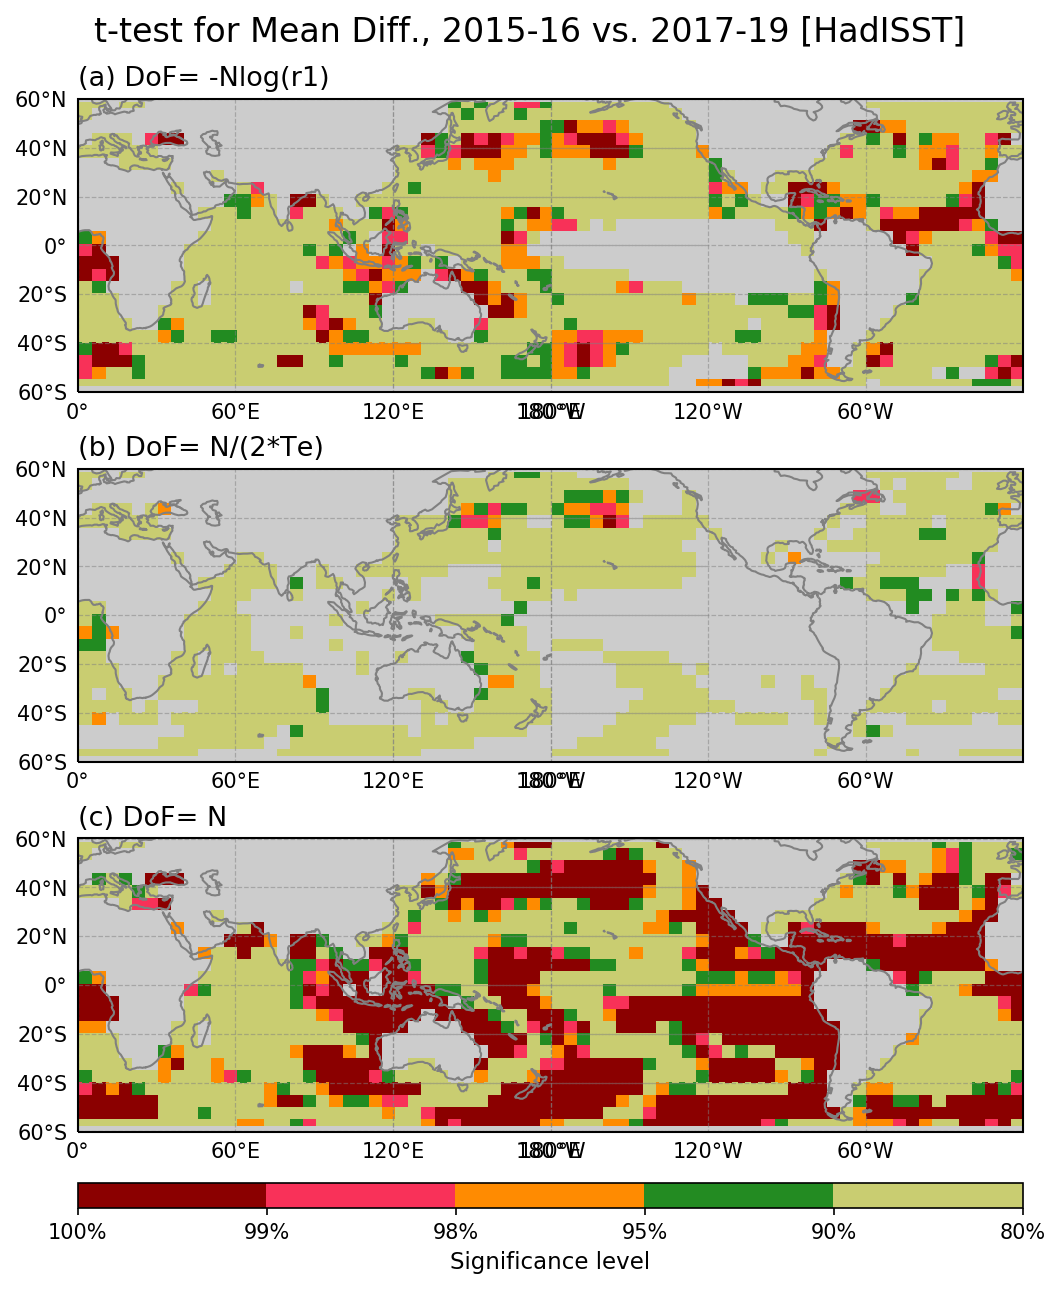
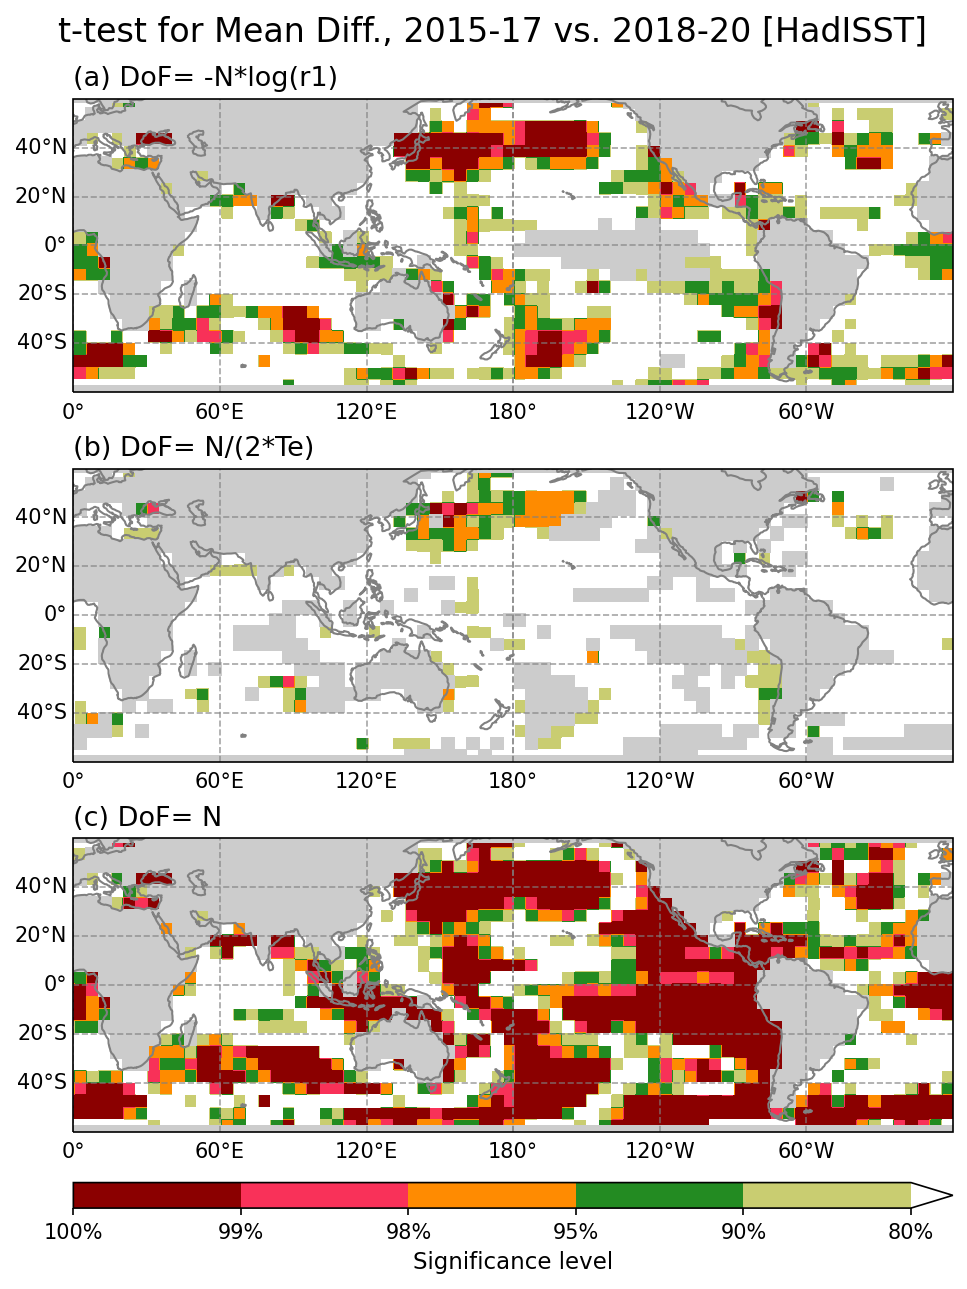
2021.0713

diff --git a/V.Various_Analysis_Methods/V00_Functions.py b/V.Various_Analysis_Methods/V00_Functions.py
@@ -47,7 +47,13 @@ def get_tgt_latlon_idx(latlons, tgt_lats, tgt_lons):
     ##-- Regional index
     if isinstance(tgt_lons,list):
         lon_idx= [lon_deg2x(ll,lon0,dlon) for ll in tgt_lons]
-        if lon_idx[1]<lon_idx[0]:
+        if lon_idx[0]==lon_idx[1]:
+            if tgt_lons[0]!=tgt_lons[1]:
+                lon_ids= np.arange(nlon)+lon_idx[0]
+                lon_ids[lon_ids>=nlon] -= nlon
+            else:
+                lon_ids= [lon_idx,]
+        elif lon_idx[1]<lon_idx[0]:
             lon_ids= list(range(lon_idx[0],nlon,1))+list(range(lon_idx[1]))
         else:
             lon_ids= np.arange(lon_idx[0], lon_idx[1], 1)
@@ -221,8 +227,7 @@ def get_monthly_dates(date1,date2,day=1,include_date2=True):
     return outdates
 
 from matplotlib.ticker import MultipleLocator, FixedLocator
-from cartopy.mpl.gridliner import LONGITUDE_FORMATTER, LATITUDE_FORMATTER
-def map_common(ax,subtit,proj,gl_lab_locator=[False,True,True,False],yloc=10,xloc=30,lon_range=[-180,179]):
+def map_common(ax,subtit,data_crs,gl_lab_locator=[True,True,False,True],yloc=30,xloc=60,lon_range=[-180,179.9]):
     """ Decorating Cartopy Map
     """
     ### Title
@@ -230,30 +235,23 @@ def map_common(ax,subtit,proj,gl_lab_locator=[False,True,True,False],yloc=10,xlo
     ### Coast Lines
     ax.coastlines(color='0.5',linewidth=1.)
     ### Grid Lines
-    # Trick to draw grid lines over dateline; not necessary in Cartopy 0.18.0 or later
-    gl= ax.gridlines(crs=proj, draw_labels=False,
-                    linewidth=0.6, color='gray', alpha=0.5, linestyle='--')
+    prop_gl= dict(linewidth=0.8, color='gray', alpha=0.7, linestyle='--')
+    import cartopy
+    cartopy_version= float(cartopy.__version__[:4])
+    if cartopy_version < 0.18:
+        print("Cartopy Version= {}".format(cartopy_version))
+        print("Caution: This code is optimized for Cartopy version 0.18+")
+        ax.gridlines(crs=data_crs, **prop_gl)
+    else:
+        gl=ax.gridlines(crs=data_crs,draw_labels=True,**prop_gl)
+        gl.left_labels,gl.right_labels,gl.top_labels,gl.bottom_labels= gl_lab_locator
+
+    gl.xlabel_style = {'size': 10}
+    gl.ylabel_style = {'size': 10}
     gl.xlocator = MultipleLocator(xloc)
     gl.ylocator = MultipleLocator(yloc)
-
-    gl= ax.gridlines(crs=proj, draw_labels=True,
-                    linewidth=0.6, color='gray', alpha=0.5, linestyle='--')
-
-    ### x and y-axis tick labels
-    gl.xlabels_top,gl.xlabels_bottom,gl.ylabels_left,gl.ylabels_right = gl_lab_locator
-    #gl.xlocator = MultipleLocator(xloc)
-    lon_locs= np.arange(np.ceil(lon_range[0]/xloc)*xloc,lon_range[1]+0.01,xloc)
-    lon_locs[lon_locs>180]-=360
-    gl.xlocator = FixedLocator(lon_locs)  # Test: [120,180,240,300]
-
-    #gl.xlocator = FixedLocator(range(-180,180,xloc))
-    gl.ylocator = MultipleLocator(yloc)
-    gl.xformatter = LONGITUDE_FORMATTER
-    gl.yformatter = LATITUDE_FORMATTER
-    gl.xlabel_style = {'size': 10, 'color': 'k'}
-    gl.ylabel_style = {'size': 10, 'color': 'k'}
     ### Aspect ratio of map
-    ax.set_aspect('auto') ### 'auto' allows the map to be distorted and fill the defined axes
+    #ax.set_aspect('auto') ### 'auto' allows the map to be distorted and fill the defined axes
     return
 
 def draw_colorbar(fig,ax,pic1,type='vertical',size='panel',gap=0.06,width=0.02,extend='neither'):

diff --git a/V.Various_Analysis_Methods/V08.t-test_Ex2_py3.py b/V.Various_Analysis_Methods/V08.t-test_Ex2_py3.py
@@ -28,7 +28,7 @@ import V00_Functions as vf
 
 def main():
     ### Years to read data
-    yrs= [2015,2019]  # Starting year and ending year
+    yrs= [2015,2020]  # Starting year and ending year
 
     ### Get SST anomaly
     area_range= [-180,180,-60,60]  # [lon_range, lat_range]
@@ -51,9 +51,9 @@ def main():
     print(dof_coef2.min(),np.median(dof_coef2))
 
     ### Split data for t-test
-    data_prv, data_post= data2test[:36,:], data2test[36:,:]  # First 3 years and later 2 years
+    data_prv, data_post= data2test[:36,:], data2test[36:,:]  # First 3 years and later 3 years
 
-    ### Calculate signi level of t-test by different dof setting
+    ### Calculate significance level of t-test by different dof setting
     p_vals1= get_ttest_pval_2d(dof_coef1,data_prv,data_post)
     p_vals2= get_ttest_pval_2d(dof_coef2,data_prv,data_post)
     p_vals3= get_ttest_pval_2d(np.ones_like(dof_coef1),data_prv,data_post)  # Assume no dependency
@@ -72,8 +72,8 @@ def main():
     ##-- Above bound is based on previous resolution, but it's ok since no change on area_boundary
 
     ### Prepare for plotting
-    suptit="t-test for Mean Diff., 2015-16 vs. 2017-19 [HadISST]"
-    var_names= ['DoF= -Nlog(r1)','DoF= N/(2*Te)','DoF= N']
+    suptit="t-test for Mean Diff., 2015-17 vs. 2018-20 [HadISST]"
+    var_names= ['DoF= -N*log(r1)','DoF= N/(2*Te)','DoF= N']
 
     outdir= '../Pics/'
     out_fig_nm= outdir+'V08.t-test_example_5deg_box.png'
@@ -153,12 +153,12 @@ def plot_map(pdata):
     proj = ccrs.PlateCarree(central_longitude=center)
     data_crs= ccrs.PlateCarree()
 
-    map_extent= [0.,359.9,-60.1,60.1]  # Range to be shown
+    map_extent= [0.,359.9,-60,60]  # Range to be shown
     img_range= pdata['img_bound']
 
     ###--- Set range of values to be shown
     #val_min, val_max= 0,0.5   <-- it is unnecessary for BoundaryNorm
-    p_val_levels= [-0.0001,0.01, 0.02, 0.05, 0.1, 0.2]
+    p_val_levels= [0,0.01, 0.02, 0.05, 0.1, 0.2]
 
     ###--- Color map
     colors= ['darkred','#FA325A','darkorange','forestgreen','#C9CD71']
@@ -185,21 +185,18 @@ def plot_map(pdata):
         vf.map_common(ax1,subtit,data_crs,xloc=60,yloc=20)
 
         iy=iy-ly-gapy
-    cb= vf.draw_colorbar(fig,ax1,map1,type='horizontal',size='panel',gap=0.06)
+    cb= vf.draw_colorbar(fig,ax1,map1,type='horizontal',size='panel',gap=0.06,extend='max')
     cb.set_label('Significance level',fontsize=11)
     cb.ax.set_xticklabels(['{:.0f}%'.format((1-val)*100) for val in p_val_levels])
     cb.ax.tick_params(labelsize=10)
 
     ##-- Seeing or Saving Pic --##
-    plt.show()
-
-    #- If want to save to file
     outfnm = pdata['out_fnm']
     print(outfnm)
     #fig.savefig(outfnm,dpi=100)   # dpi: pixels per inch
-    #fig.savefig(outfnm,dpi=150,bbox_inches='tight')   # dpi: pixels per inch
-
+    fig.savefig(outfnm,dpi=150,bbox_inches='tight')   # dpi: pixels per inch
     # Defalut: facecolor='w', edgecolor='w', transparent=False
+    plt.show()
     return
 
 if __name__ == "__main__":

diff --git a/V.Various_Analysis_Methods/V05.Regression_Nino34_SST_py3.py b/V.Various_Analysis_Methods/V05.Regression_Nino34_SST_py3.py
@@ -22,7 +22,7 @@ import V00_Functions as vf
 
 def main():
     ### Years to read data
-    yrs= [2015,2019]  # Starting year and ending year
+    yrs= [2015,2020]  # Starting year and ending year
 
     ### Get Nino3.4 Index
     #Nino3.4 (5N-5S, 170W-120W) [-170,-120,-5,5]
@@ -57,7 +57,7 @@ def main():
     regr_coef3= np.copy(regr_map)
 
     ### Prepare for plotting
-    suptit="Regr. coef. of SST against Ni{}o3.4 [HadISST,2015-19]".format('\u00F1')
+    suptit="Regr. coef. of SST against Ni{}o3.4 [HadISST,2015-20]".format('\u00F1')
     data= [regr_coef1, regr_coef2, regr_coef3]
     var_names= ['Calc_manually','Using linregress()','Using sklearn.linear_model']
 
@@ -102,7 +102,8 @@ def regr_linregress_1d_vs_2d(arr1d, arr2d):
     regr: coefficients, 1-d array of shape [n]
     """
     from scipy.stats import linregress
-    regr= np.apply_along_axis(lambda y,x: linregress(x,y)[0],0,arr2d,x=arr1d)
+    f= lambda y,x: linregress(x,y)[0]
+    regr= np.apply_along_axis(f,0,arr2d,x=arr1d)
     return regr
 
 def regr_sklearn_1d_vs_2d(arr1d, arr2d):
@@ -145,7 +146,7 @@ def plot_map(pdata):
 
     ###--- Create a figure
     fig=plt.figure()
-    fig.set_size_inches(7,8.5)  ## (xsize,ysize)
+    fig.set_size_inches(6.4,9.6)  ## (xsize,ysize)
 
     ###--- Suptitle
     suptit= pdata['suptit']
@@ -159,7 +160,7 @@ def plot_map(pdata):
     lon0,dlon,nlon= [val for val in pdata['lon_info'].values()]
     lat0,dlat,nlat= [val for val in pdata['lat_info'].values()]
 
-    map_extent= [70.,279.9,-60.1,60.1]  # Range to be shown
+    map_extent= [30.,300,-60,60]  # Range to be shown
     img_range= [lon0-dlon/2,lon0+dlon*(nlon+0.5),lat0-dlat/2,lat0+dlat*(nlat+0.5)]  # Exact range of data, necessary for imshow()
     #xm,ym= np.meshgrid(np.arange(nlon+1)*dlon+lon0-dlon/2, np.arange(nlat+1)*dlat+lat0-dlat/2)  # For pcolormesh()
 
@@ -169,10 +170,10 @@ def plot_map(pdata):
     val_min, val_max= -vmax, vmax
 
     ###--- Color map
-    cm = plt.cm.get_cmap('plasma') #'RdYlBu_r')
+    cm = plt.cm.get_cmap('plasma').copy() #'RdYlBu_r')
     cm.set_bad('0.9')  # For the gridcell of NaN
 
-    left,right,top,bottom= 0.07, 0.97, 0.93, 0.12
+    left,right,top,bottom= 0.06, 0.94, 0.93, 0.12
     npnx,gapx,npny,gapy= 1, 0.05, len(pdata['data']), 0.06
     lx= (right-left-gapx*(npnx-1))/npnx
     ly= (top-bottom-gapy*(npny-1))/npny
@@ -197,14 +198,11 @@ def plot_map(pdata):
     cb.ax.tick_params(labelsize=10)
 
     ##-- Seeing or Saving Pic --##
-    plt.show()
-
-    #- If want to save to file
     outfnm = pdata['out_fnm']
     print(outfnm)
     #fig.savefig(outfnm,dpi=100)   # dpi: pixels per inch
-    #fig.savefig(outfnm,dpi=150,bbox_inches='tight')   # dpi: pixels per inch
-
+    fig.savefig(outfnm,dpi=150,bbox_inches='tight')   # dpi: pixels per inch
+    plt.show()
     return
 
 

diff --git a/V.Various_Analysis_Methods/V06.Correlation_Nino34_SST_py3.py b/V.Various_Analysis_Methods/V06.Correlation_Nino34_SST_py3.py
@@ -22,7 +22,7 @@ import V00_Functions as vf
 
 def main():
     ### Years to read data
-    yrs= [2015,2019]  # Starting year and ending year
+    yrs= [2015,2020]  # Starting year and ending year
 
     ### Get Nino3.4 Index
     #Nino3.4 (5N-5S, 170W-120W) [-170,-120,-5,5]
@@ -57,7 +57,7 @@ def main():
     corr_coef3= np.copy(corr_map)
 
     ### Prepare for plotting
-    suptit= "Corr. coef. between SST and Ni{}o3.4 [HadISST,2015-19]".format('\u00F1')
+    suptit= "Corr. coef. between SST and Ni{}o3.4 [HadISST,2015-20]".format('\u00F1')
     data= [corr_coef1, corr_coef2, corr_coef3]
     var_names= ['Calc_manually','Using pearsonr()','Using corrcoef()']
     #lat_info= dict(lat0=lat0,dlat=dlat,nlat=nlat)
@@ -161,14 +161,14 @@ def plot_map(pdata):
     lon0,dlon,nlon= [val for val in pdata['lon_info'].values()]
     lat0,dlat,nlat= [val for val in pdata['lat_info'].values()]
 
-    map_extent= [0.,359.9,-60.1,60.1]  # Range to be shown
+    map_extent= [0.,359.9,-60,60]  # Range to be shown
     img_range= [lon0-dlon/2,lon0+dlon*(nlon+0.5),lat0-dlat/2,lat0+dlat*(nlat+0.5)]  # Exact range of data, necessary for imshow()
 
     ###--- Set range of values to be shown
     val_min, val_max= -1,1  # Because it's correlation coefficient
 
     ###--- Color map
-    cm = plt.cm.get_cmap('Spectral_r')
+    cm = plt.cm.get_cmap('Spectral_r').copy()
     cm.set_bad('0.9')  # For the gridcell of NaN
 
     left,right,top,bottom= 0.07, 0.97, 0.93, 0.12
@@ -201,15 +201,12 @@ def plot_map(pdata):
     cb.ax.tick_params(labelsize=10)
 
     ##-- Seeing or Saving Pic --##
-    plt.show()
-
-    #- If want to save to file
     outfnm = pdata['out_fnm']
     print(outfnm)
     #fig.savefig(outfnm,dpi=100)   # dpi: pixels per inch
-    #fig.savefig(outfnm,dpi=150,bbox_inches='tight')   # dpi: pixels per inch
-
+    fig.savefig(outfnm,dpi=150,bbox_inches='tight')   # dpi: pixels per inch
     # Defalut: facecolor='w', edgecolor='w', transparent=False
+    plt.show()
     return
 
 if __name__ == "__main__":

diff --git a/V.Various_Analysis_Methods/V04_Estimating_Significance_level_Ex_py3.py b/V.Various_Analysis_Methods/V04_Estimating_Significance_level_Ex_py3.py
@@ -26,7 +26,7 @@ import V00_Functions as vf
 
 def main():
     ### Get Nino3.4 Index
-    yrs= [2015,2019]  # Starting year and ending year
+    yrs= [2015,2020]  # Starting year and ending year
     #Nino3.4 (5N-5S, 170W-120W) [-170,-120,-5,5]
     nn34= vf.get_sst_areamean_from_HadISST([-170,-120,-5,5],yrs,remove_AC=True)
     ### And other region
@@ -40,7 +40,7 @@ def main():
     fig.set_size_inches(6,8.5)  ## (xsize,ysize)
     fig.subplots_adjust(hspace=0.3)
     ###--- Suptitle
-    suptit="Lead-Lag Correlation Example [HadISST,2015-19]"
+    suptit="Lead-Lag Correlation Example [HadISST,2015-20]"
     fig.suptitle(suptit,fontsize=15,y=0.95,va='bottom',stretch='semi-condensed')
 
     maxlag=7
@@ -60,13 +60,12 @@ def main():
     llcorr_plot(ax1,data,vnames,sub_tit,maxlag=maxlag,corr_crt=corr_crt)
 
     ### Show or save
-    plt.show()
-
     outdir= '../Pics/'
     out_fig_nm= outdir+'V04.estimate_corr_sig_level_example.SST_AM+Nino34.png'
     #fig.savefig(outfnm,dpi=100)   # dpi: pixels per inch
-    #fig.savefig(out_fig_nm,dpi=150,bbox_inches='tight')   # dpi: pixels per inch
+    fig.savefig(out_fig_nm,dpi=150,bbox_inches='tight')   # dpi: pixels per inch
     print(out_fig_nm)
+    plt.show()
     return
 
 def llcorr_plot(ax,data,vnames,subtit,maxlag=5,corr_crt=-1):
@@ -140,7 +139,7 @@ def estimate_significant_corr_coef(ts1,ts2):
         #r2= np.corrcoef(ts2[1:],ts2[:-1])[0,1]
         #vsum= (1+r1*r2)/(1-r1*r2)
 
-        print(vsum)
+        print("Dependency_level= ",vsum)
         return vsum
 
     N= len(ts1)
@@ -155,7 +154,7 @@ def estimate_significant_corr_coef(ts1,ts2):
         idx_pool= np.random.randint(low=0,high=N-int(dependency_level)-2,size=nrand*2)
     else:
         rg = np.random.default_rng(123)  # Set seed number in order to repeat
-        idx_pool= rg.integers(0, N-int(dependency_level)-2, size=nrand*2, endpoint=True)
+        idx_pool= rg.integers(0, N-int(dependency_level)-2, size=nrand, endpoint=True)
 
     corrs=[]
     idx_k=0

diff --git a/V.Various_Analysis_Methods/V07.t-test_Ex_py3.py b/V.Various_Analysis_Methods/V07.t-test_Ex_py3.py
@@ -28,13 +28,13 @@ import V00_Functions as vf
 
 def main():
     ### Get Nino3.4 Index
-    yrs= [2015,2019]  # Starting year and ending year
+    yrs= [2015,2020]  # Starting year and ending year
     #Nino4 (5N-5S, 160E-150W) [160,210,-5,5]
     #Nino3.4 (5N-5S, 170W-120W) [-170,-120,-5,5]
-    nn34= vf.get_sst_areamean_from_HadISST([-170,-120,-5,5],yrs,remove_AC=True)
+    nn34= vf.get_sst_areamean_from_HadISST([-170,-120,-5,5],yrs,remove_AC=False)
     ### And other region
-    tio= vf.get_sst_areamean_from_HadISST([240,280,-10,0],yrs,remove_AC=True)
-    spo= vf.get_sst_areamean_from_HadISST([-170,-120,-40,-30],yrs,remove_AC=True)
+    tio= vf.get_sst_areamean_from_HadISST([240,280,-10,0],yrs,remove_AC=False)
+    spo= vf.get_sst_areamean_from_HadISST([-170,-120,-40,-30],yrs,remove_AC=False)
 
     data= [nn34, tio, spo]
     var_names= ['Ni{}o3.4'.format('\u00F1'), 'Trop_IO', 'S_Pacific']

diff --git a/O.Matplotlib_Application+Cartopy/O00_Functions.py b/O.Matplotlib_Application+Cartopy/O00_Functions.py
@@ -42,7 +42,13 @@ def get_tgt_latlon_idx(latlons, tgt_lats, tgt_lons):
     ##-- Regional index
     if isinstance(tgt_lons,list):
         lon_idx= [lon_deg2x(ll,lon0,dlon) for ll in tgt_lons]
-        if lon_idx[1]<lon_idx[0]:
+        if lon_idx[0]==lon_idx[1]:
+            if tgt_lons[0]!=tgt_lons[1]:
+                lon_ids= np.arange(nlon)+lon_idx[0]
+                lon_ids[lon_ids>=nlon] -= nlon
+            else:
+                lon_ids= [lon_idx,]
+        elif lon_idx[1]<lon_idx[0]:
             lon_ids= list(range(lon_idx[0],nlon,1))+list(range(lon_idx[1]))
         else:
             lon_ids= np.arange(lon_idx[0], lon_idx[1], 1)

diff --git a/C.Basic_Numpy/C01.numpy_basic1.py3.py b/C.Basic_Numpy/C01.numpy_basic1.py3.py
@@ -76,7 +76,7 @@ print("\nPress Enter to continue... (1-1)\n")
 input("----------------------------------------\n")
 
 print("\n1-2. Transform to numpy array")
-print("Example: lsit to numpy array")
+print("Example: list to numpy array")
 print("a=[[0,1,2],[4,5,6]]  # A list")
 a=[[0,1,2],[4,5,6]]  ### A list
 print('''

diff --git a/A.Basic_Python/A04.python_loop+if.py3.py b/A.Basic_Python/A04.python_loop+if.py3.py
@@ -54,7 +54,7 @@ print("\nif x<1 and y>1: print('yes')  # and, or")
 print("Result:")
 if x<1 and y>1: print('yes')
 
-print("\nif 'aa' in 'Hello': print('yes')  # any membership test")
+print("\nif 'll' in 'Hello': print('yes')  # any membership test")
 print("Result:")
 if 'll' in 'Hello': print('yes')
 

diff --git a/V.Various_Analysis_Methods/V03_Lead-Lag_Corr_Ex_py3.py b/V.Various_Analysis_Methods/V03_Lead-Lag_Corr_Ex_py3.py
@@ -124,7 +124,7 @@ def llcorr(ts1,ts2,tlag):
         #r2= np.corrcoef(ts2[1:],ts2[:-1])[0,1]
         #vsum= (1+r1*r2)/(1-r1*r2)
 
-        print(vsum)
+        print("Dependency_level= ",vsum)
         return vsum
 
     def get_cdf_of_beta_distribution(nn,val):

diff --git a/C.Basic_Numpy/C02.numpy_basic2.py3.py b/C.Basic_Numpy/C02.numpy_basic2.py3.py
@@ -21,7 +21,7 @@ def show_array_info(a,show_contents=True):
    return
 
 ###--- Start
-print("\n2. characteristics of numpy array")
+print("\n2. Characteristics of numpy array")
 print("\n2-1. Operation of array(s)")
 
 ### Simple operation
